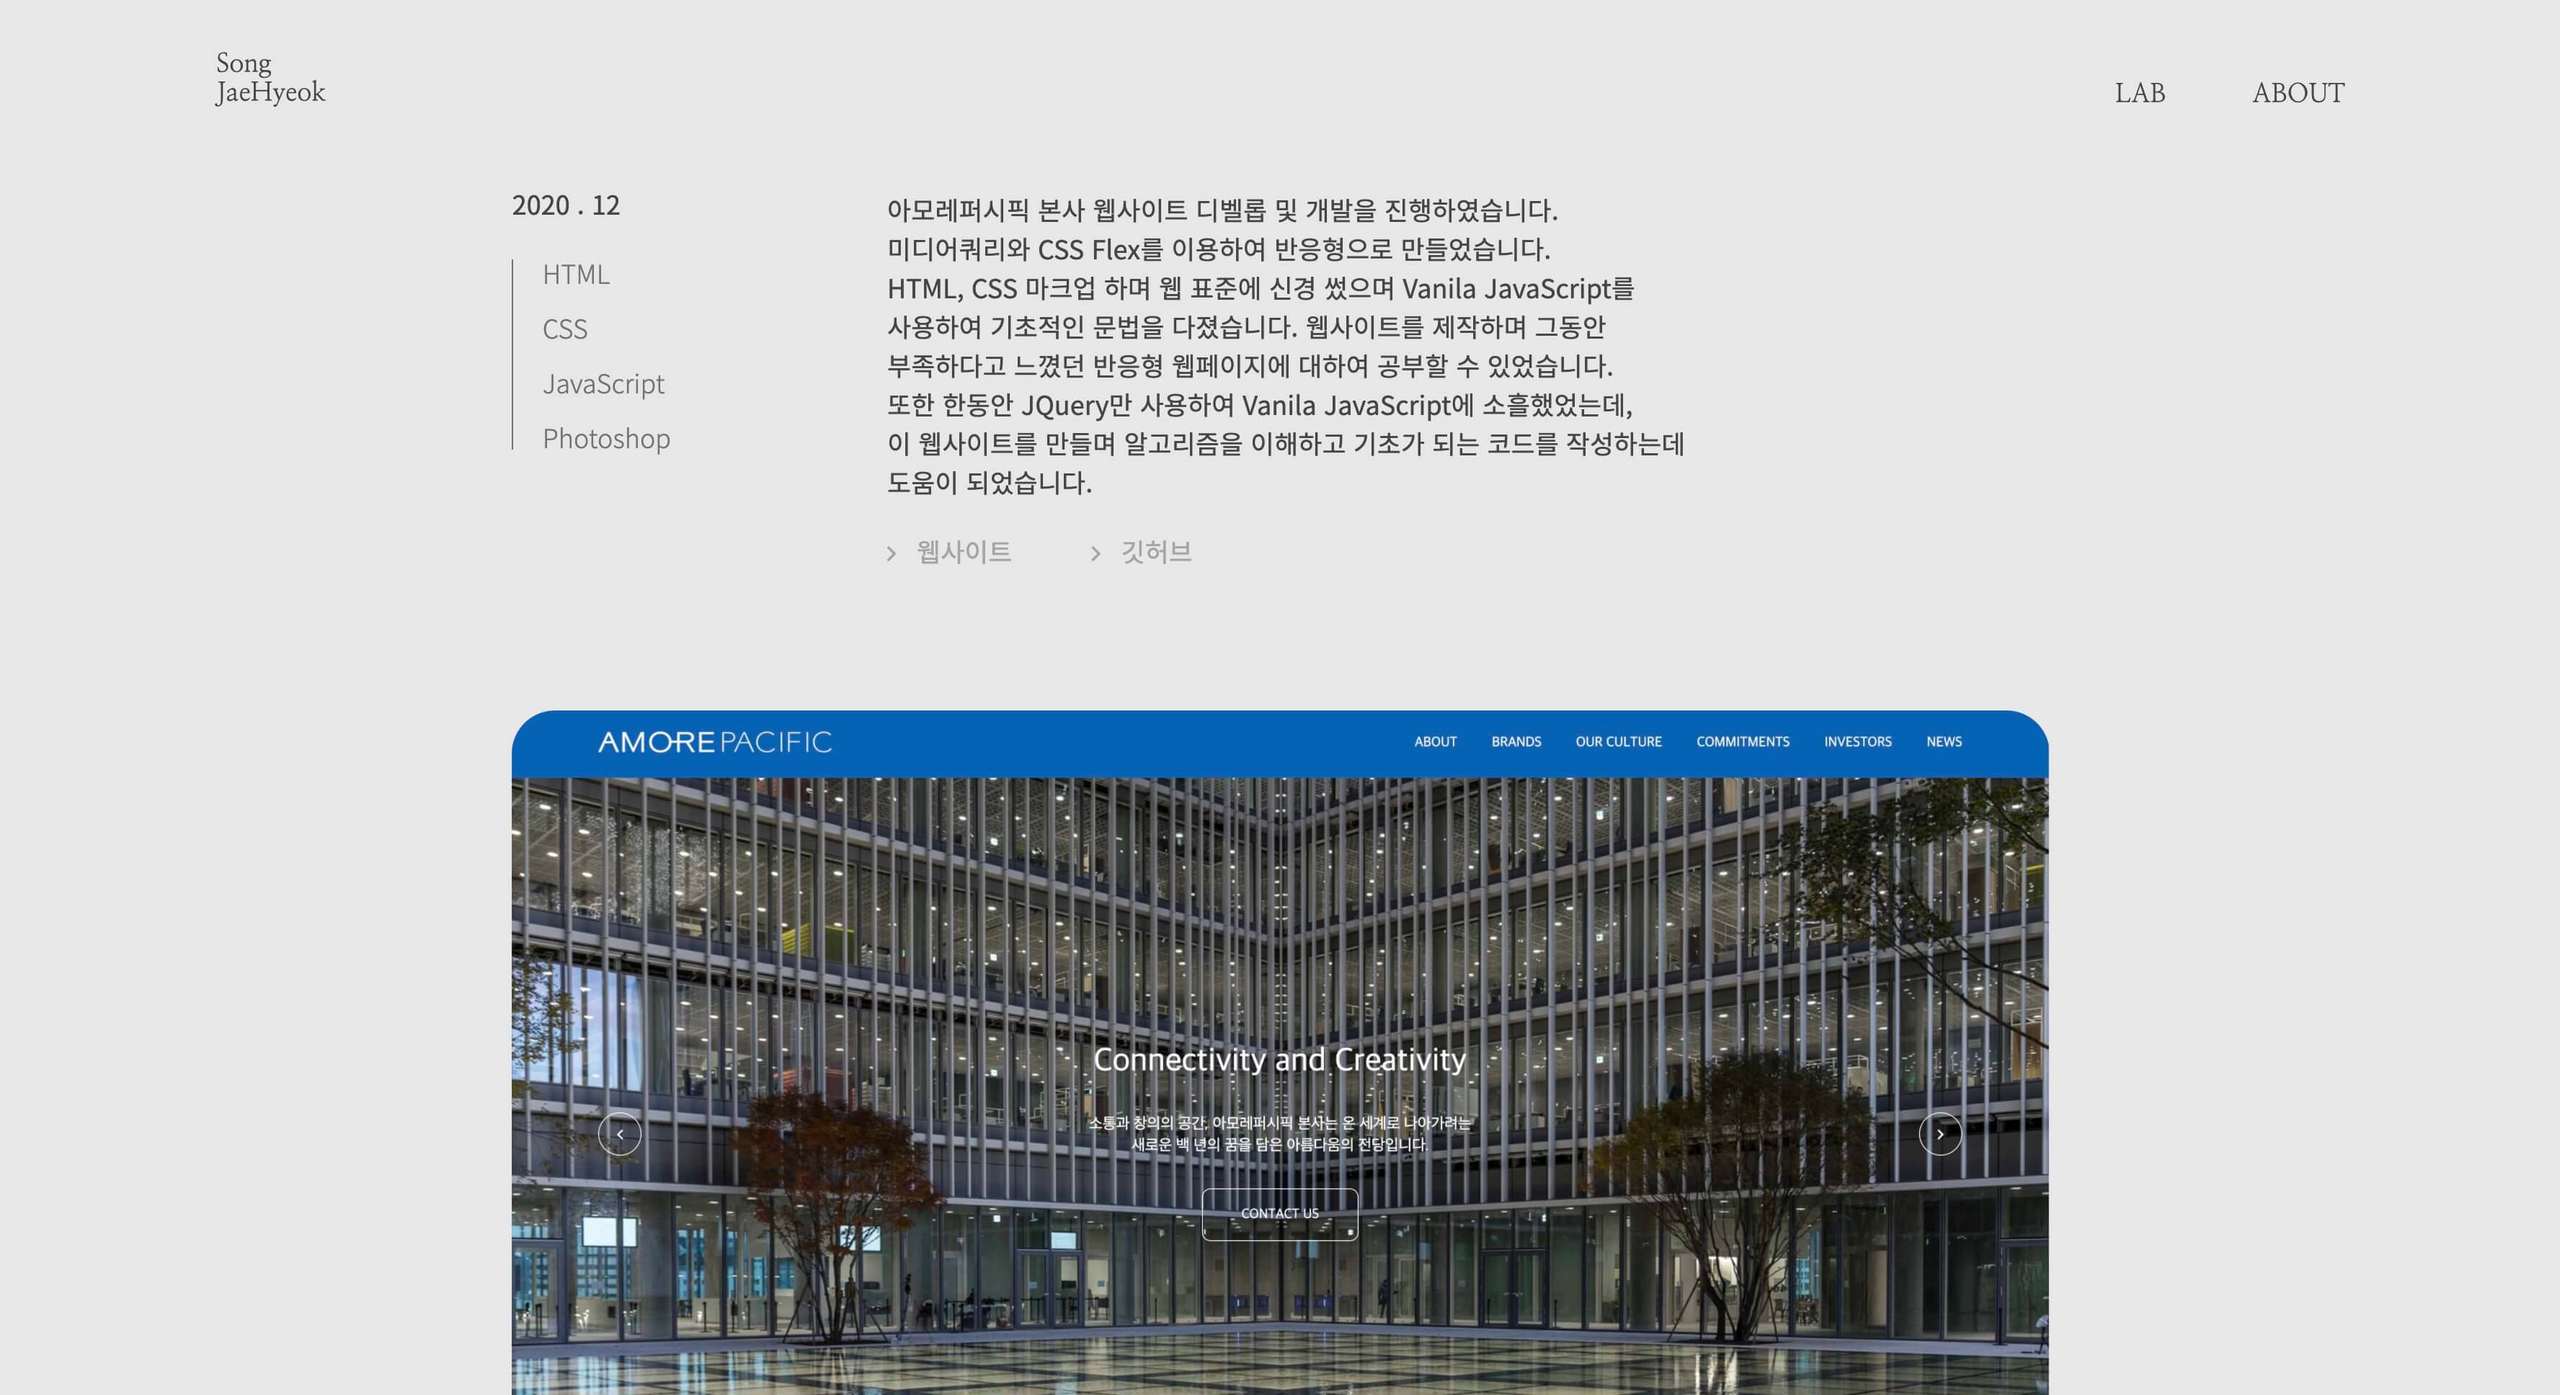
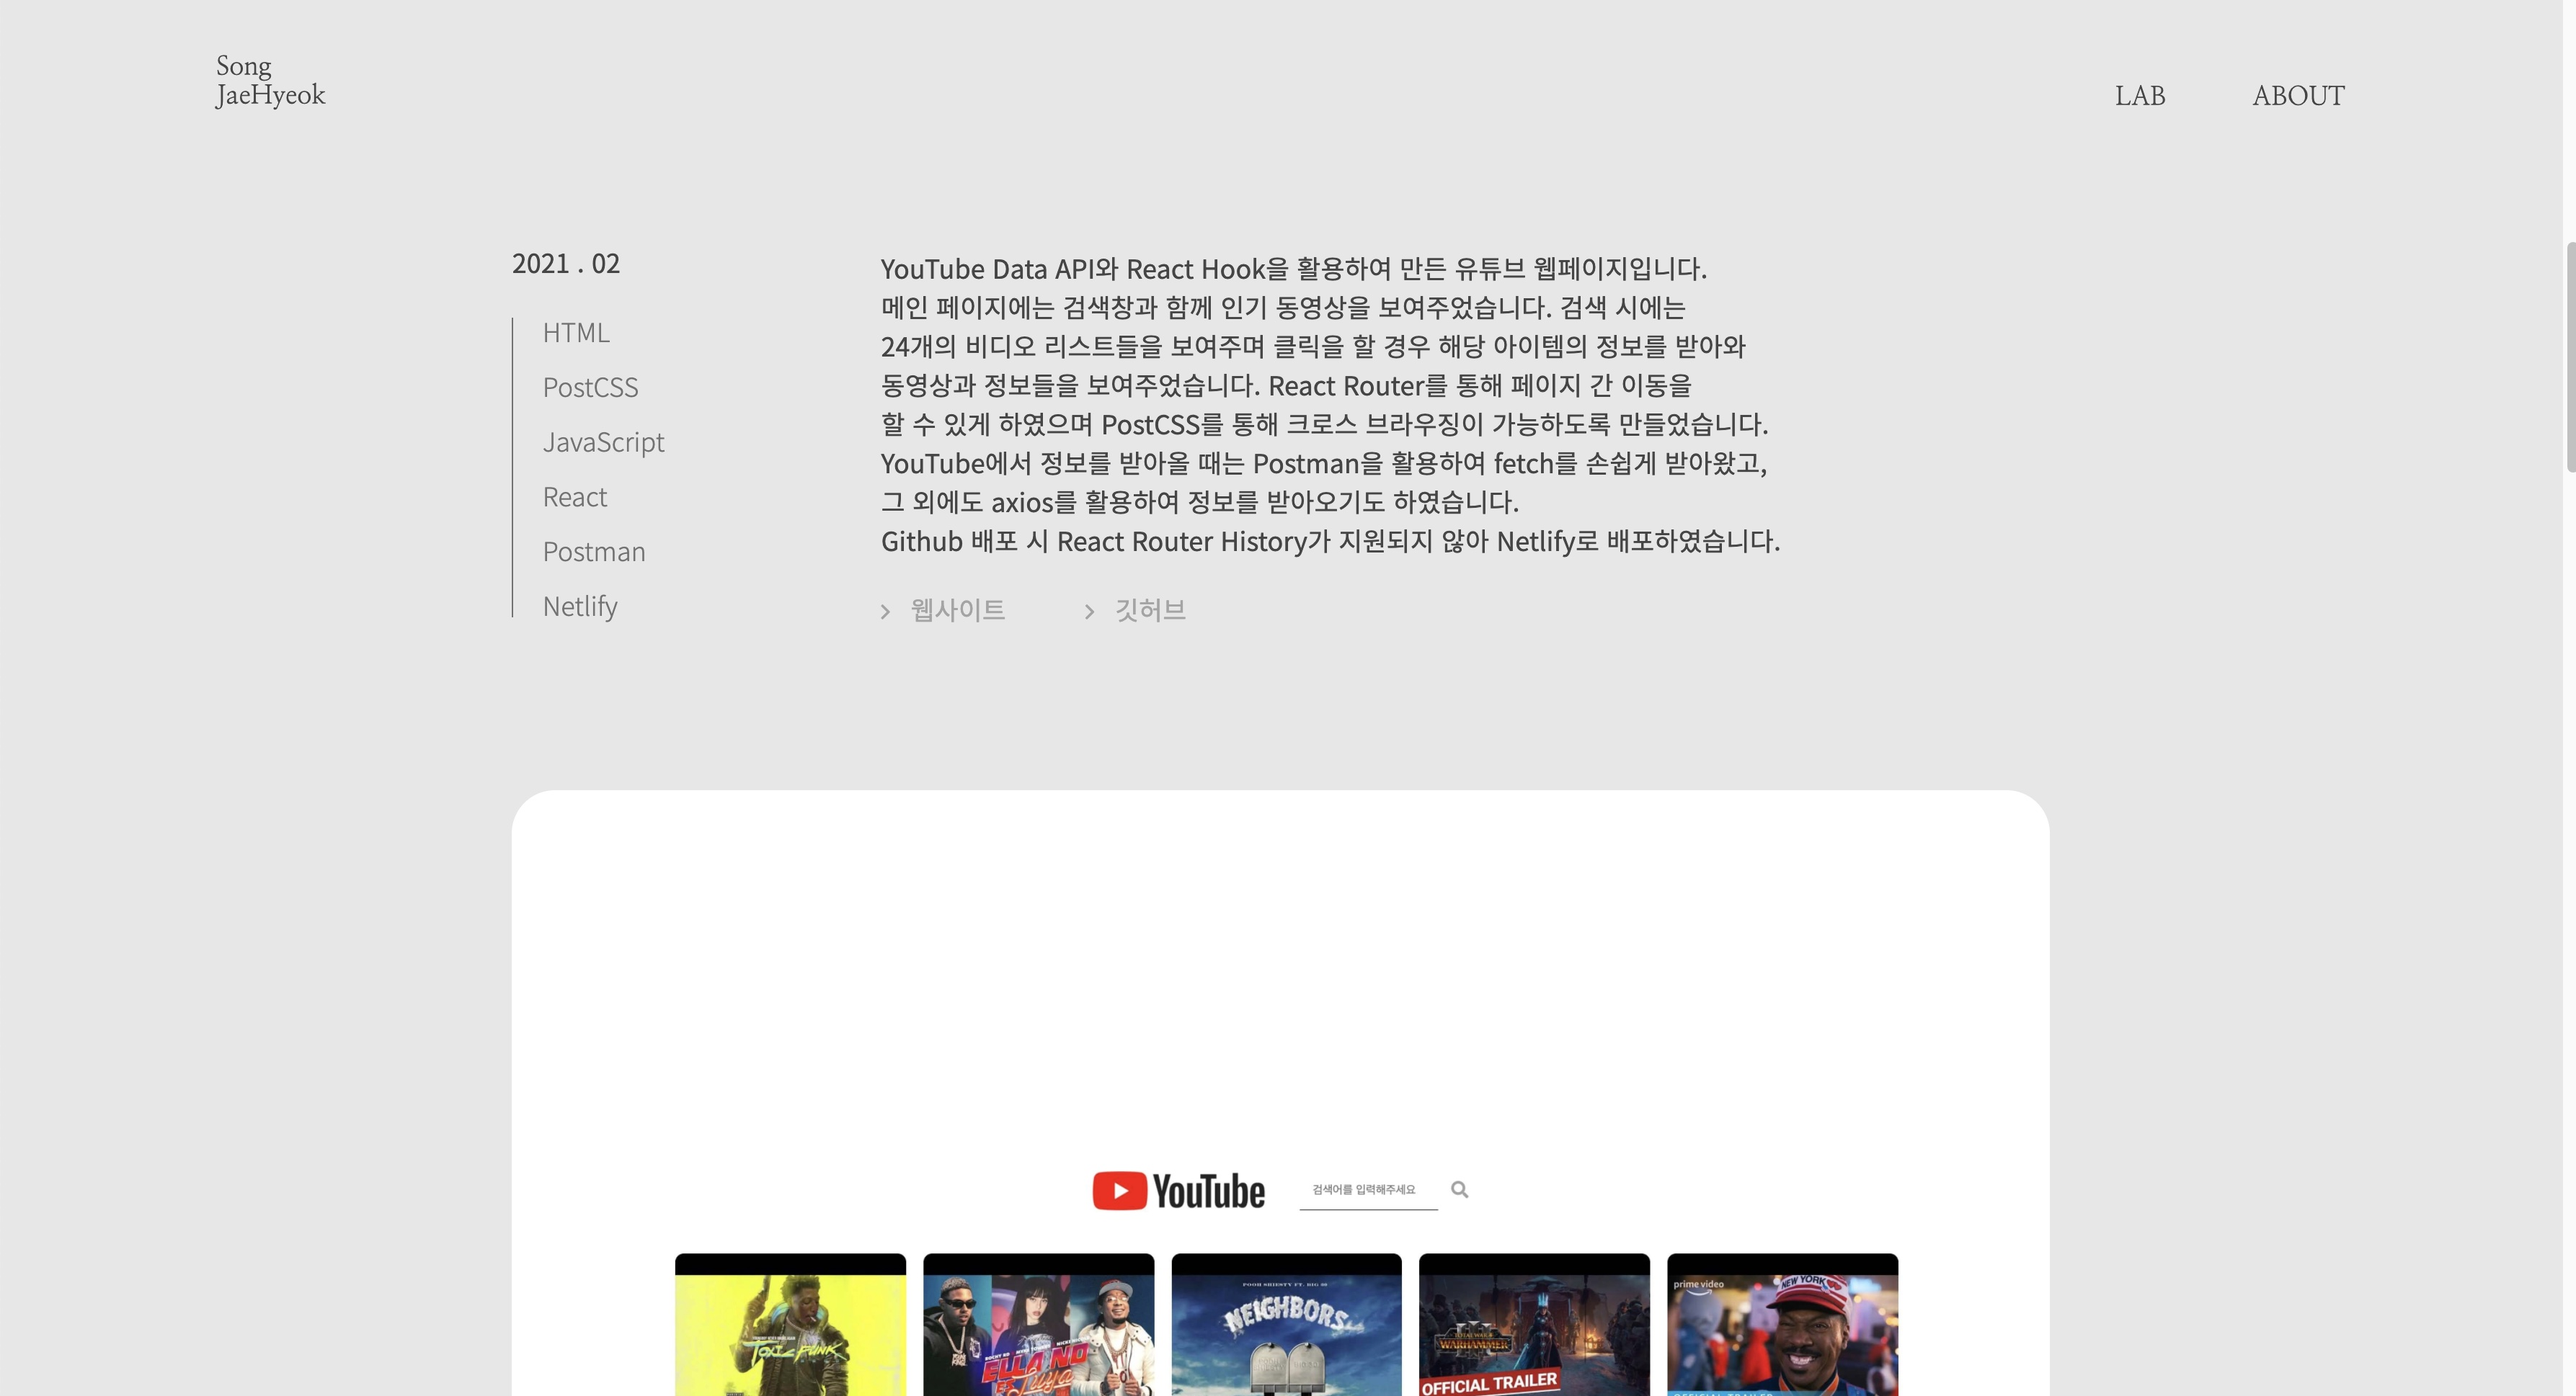
youtube 페이지 추가에 따른 readme 업데이트
youtube 페이지 추가에 따른 readme 업데이트

diff --git a/README.md b/README.md
@@ -56,7 +56,7 @@ JavaScript
 
 ### Project Page
 
-프로젝트 페이지입니다. 아모레퍼시픽, 인터스텔라, 포트폴리오2020, 비밀의 숲이 있습니다.      
+프로젝트 페이지입니다. 유튜브, 인터스텔라, 포트폴리오2020, 아모레퍼시픽, 비밀의 숲이 있습니다.      
 프로젝트 커버, 설명, 이미지 순서로 보여주었으며 전체적인 레이아웃은 통일시켰습니다.     
 하단에는 다음 프로젝트의 간단한 소개와 함께 넘어갈 수 있도록 하였고,     
 푸터에는 저의 정보를 입력하여 연락할 수 있게 제작하였습니다.     
